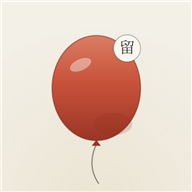
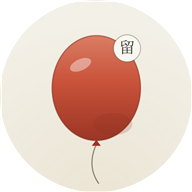
1116

diff --git a/index.html b/index.html
@@ -41,7 +41,8 @@
   body.playing #hud,body.sweeping #hud{opacity:1}
   .hud-label{display:block;font-size:10px;letter-spacing:.4em;color:var(--ink-faint);margin-bottom:6px}
   .hud-value{font-size:26px;font-weight:300;font-variant-numeric:tabular-nums;letter-spacing:.04em;line-height:1}
-  .hud-left{min-width:150px}
+  /* 42px 让时间/三息避开左上角固定的声音/全屏按钮（按钮右缘 102px） */
+  .hud-left{min-width:150px;padding-left:42px}
   #timeBarWrap{width:132px;height:1px;background:var(--line-soft);margin-top:10px}
   #timeBar{height:1px;width:100%;background:var(--ink-dim);transition:width .12s linear}
   #timeVal.danger{color:var(--seal)}
@@ -96,7 +97,7 @@
   /* ===== 三息 ===== */
   #lifeBox{display:none}
   #lifeDots{display:flex;gap:8px;margin-top:15px}
-  .life-dot{width:9px;height:9px;border-radius:50%;border:1px solid var(--ink-dim);background:var(--ink-dim);transition:all .35s ease}
+  .life-dot{width:9px;height:9px;border-radius:50%;border:1px solid #635d53;background:#635d53;transition:all .35s ease}
   .life-dot.off{background:transparent;border-color:var(--line);transform:scale(.7)}
 
   /* ===== 覆盖层 ===== */
@@ -166,11 +167,11 @@
   #signCancel:hover{color:var(--ink);border-color:var(--ink-dim)}
 
   @media (max-width:640px){
-    #hud{padding:18px 56px}
+    #hud{padding:18px 56px 18px 24px}
     .hud-value,#scoreVal{font-size:20px}
-    .hud-left{min-width:0}
-    #timeBarWrap{width:86px}
-    .hud-right{gap:16px;min-width:0}
+    .hud-left{min-width:0;padding-left:70px}
+    #timeBarWrap{width:76px}
+    .hud-right{gap:12px;min-width:0}
     #comboBarWrap{display:none}
     #comboBox .hud-label{display:none}
     #comboVal{font-size:17px}
@@ -195,6 +196,8 @@
   }
   @media (max-width:400px){
     .hud-label{letter-spacing:.24em}
+    /* 极窄屏横向放不下：时间/三息落到按钮行下方，避免重叠 */
+    .hud-left{padding-left:0;margin-top:40px}
     .mode-row{gap:16px}
     .sign-right #bestTag{display:none}
     .stat-line{gap:14px}
@@ -370,7 +373,7 @@ const INK = [38, 34, 28], PAPER = [244, 240, 230], SEAL = [181, 56, 42];
 const DIFFS = {
   classic: { key: 'classic', label: '经典', time: 20, interval: .40, speed: 175, bombChance: .09, bombMax: 2, feverAt: 10, note: '廿秒为限' },
   zen:     { key: 'zen',     label: '禅意', time: 60, interval: .46, speed: 158, bombChance: 0,   bombMax: 0, feverAt: 10, note: '无雷静心' },
-  gale:    { key: 'gale',    label: '疾风', time: 0,  interval: .30, speed: 190, bombChance: .13, bombMax: 3, feverAt: 8,  note: '三息为命', noTimer: true, lives: 3, wind: true },
+  gale:    { key: 'gale',    label: '疾风', time: 0,  interval: .30, speed: 185, bombChance: .13, bombMax: 3, feverAt: 8,  note: '三息为命', noTimer: true, lives: 3, wind: true },
 };
 const CFG = { comboWindow: 1.8, sweepMax: 3.6, timeCap: 8, feverDur: 6, slowDur: 3.4, slowScale: .45 };
 const MODE = () => DIFFS[G.diff];
@@ -1134,7 +1137,7 @@ function update(dt) {
     }
     G.inkT -= dt;
     if (G.inkT <= 0 && !G.noSpawn) {
-      G.inkT = rand(11, 16);
+      G.inkT = df.noTimer ? rand(9, 14) : rand(11, 16); /* 疾风专属：墨涟稍密一点，其余模式不变 */
       if (!G.balloons.some(b => b.kind === 'ink') && G.slow <= 0) G.balloons.push(makeBalloon({ kind: 'ink' }));
     }
     if (df.wind) updateWind(dt);
@@ -1636,5 +1639,13 @@ window.HOLO = {
   backToTitle,
 };
 </script>
+
+    <!-- 底部个人标签 -->
+    <div style="position: fixed; bottom: 20px; left: 50%; transform: translateX(-50%); display: flex; align-items: center; gap: 10px; color: rgba(141, 94, 29, 0.99); font-size: 12px; font-weight: 300; letter-spacing: 1.5px; z-index: 9999; pointer-events: none;">
+        <div style="width: 35px; height: 1px; background: linear-gradient(to right, transparent, rgba(235, 220, 200, 0.85));"></div>
+        <span>未登录 · 亲署</span>
+        <div style="width: 35px; height: 1px; background: linear-gradient(to left, transparent, rgba(235, 220, 200, 0.85));"></div>
+    </div>
+
 </body>
 </html>

diff --git a/README.md b/README.md
@@ -34,7 +34,7 @@
 | 玩法 | 规则 | 适合 |
 | --- | --- | --- |
 | **经典** | 廿秒为限，切落非保留之色得分，时尽收场 | 日常手感 |
-| **禅意** | 六十息、无墨雷、误切不断分只断连斩 | 静心练连斩 |
+| **禅意** | 六十息、无墨雷、误切不断分只断连斩 | 静心连斩 |
 | **疾风** | 三息为命：漏网 / 误切 / 墨雷各损一息；长风不断、气球渐快 | 挑战生存 |
 
 ## 计分与规则
@@ -73,7 +73,7 @@
 ```bash
 # 方式一：直接双击 index.html
 
-# 方式二：起一个本地服务器（任选其一）
+# 方式二：项目文件夹地址栏起一个本地服务器（任选其一）
 python -m http.server 8080
 npx serve .
 ```
